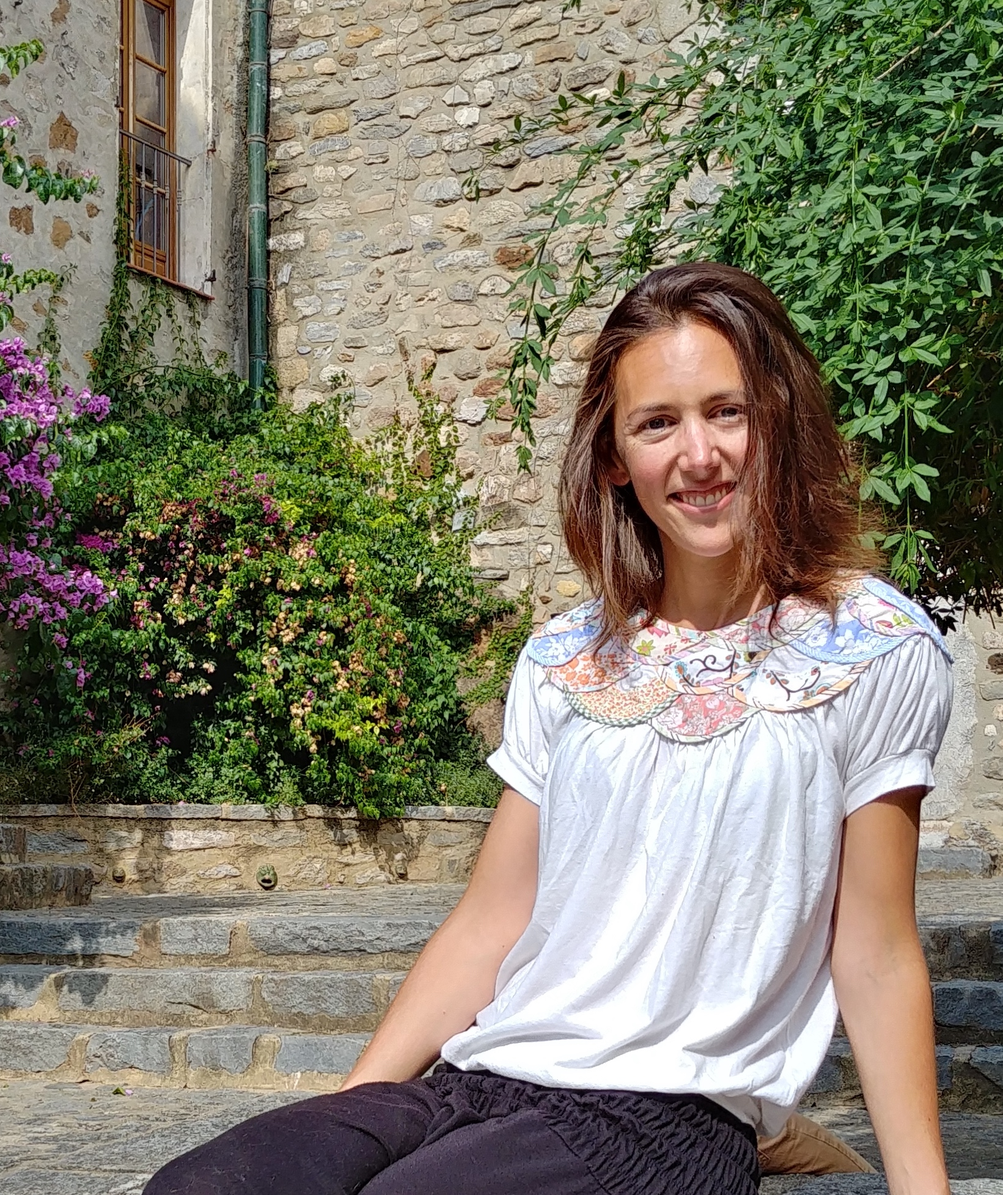
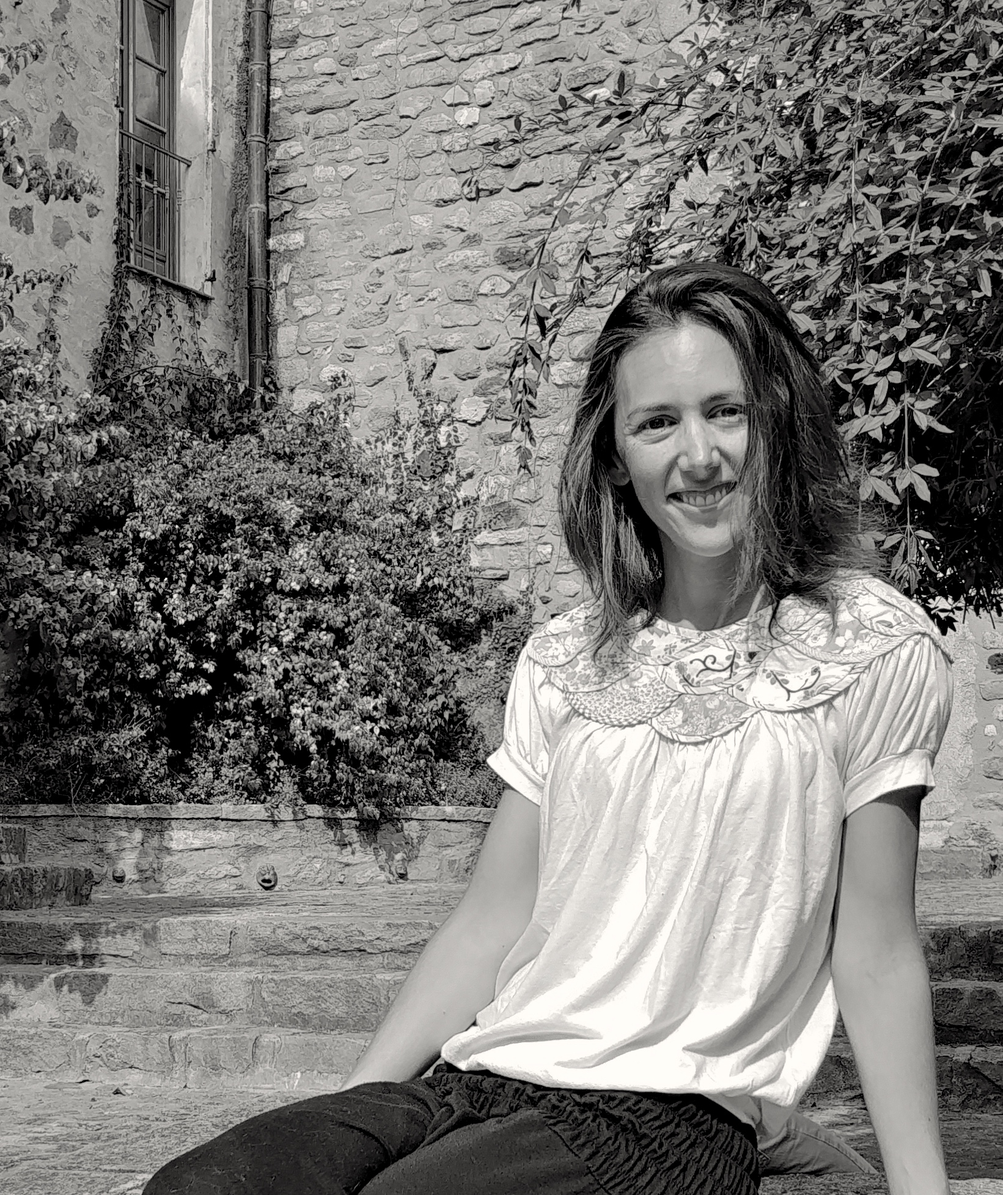
Change Marie's photo to greyscale + shortent preloader.

diff --git a/js/custom.js b/js/custom.js
@@ -2,7 +2,7 @@
  /* jQuery Pre loader
   -----------------------------------------------*/
 $(window).load(function(){
-    $('.preloader').fadeOut(1000); // set duration in brackets    
+    $('.preloader').fadeOut(0); // set duration in brackets    
 });
 
 
